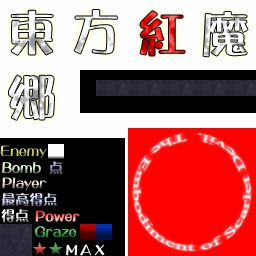
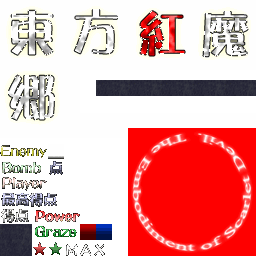
power link

diff --git a/src/player.c b/src/player.c
@@ -16,13 +16,14 @@ Player *InitPlayer(int x, int y, Image *tex) {
     pplayer->y = y;
     pplayer->u = 0;
     pplayer->v = 0;
-    pplayer->power = 3;
+    pplayer->power = 0;
     pplayer->frame = 0;//anm frame
     pplayer->tmp = 0;//frame slow factor
-    pplayer->speed = 2;
+    pplayer->speed = 4;
     pplayer->butimer = 0;
     pplayer->temp = false;//is mode transfer? usage:init anm when mode switch
     pplayer->slowmode = false;
+    pplayer->touchframe = false;
     pplayer->movement = 0;//anm mode 0:NORMAL 1:LEFT 2:RIGHT
     pplayer->tex = LoadTextureFromImage(*tex);
     return pplayer;
@@ -125,19 +126,29 @@ static void shoot(Player *pplayer) {
     if (pplayer->butimer == 5) {
         addBullet(InitBullet(pplayer->x+16+5, pplayer->y+48, 0, -1, 0, -1, &PL00, (Rectangle){194, 145, 11, 62}, 0));
         addBullet(InitBullet(pplayer->x-16+15, pplayer->y+48, 0, -1, 0, -1, &PL00, (Rectangle){194, 145, 11, 62}, 0));
-        if(pplayer->power > 1){
-            if(pplayer->slowmode != true){
-                addBullet(InitBullet(pplayer->x+16+25, pplayer->y+48, 0, -1, 0, -1, &PL00, (Rectangle){207, 145, 6, 54}, 0));
-                addBullet(InitBullet(pplayer->x-16+5, pplayer->y+48, 0, -1, 0, -1, &PL00, (Rectangle){207, 145, 6, 54}, 0));
+        if(pplayer->power >=1){
+            addBullet(InitBullet(pplayer->x+16+15, pplayer->y+48, 0, -1, 0, -1, &PL00, (Rectangle){207, 145, 6, 54}, 0));
+            addBullet(InitBullet(pplayer->x-16+5, pplayer->y+48, 0, -1, 0, -1, &PL00, (Rectangle){207, 145, 6, 54}, 0));
+        }
+        if(pplayer->power >=2){
+            if(pplayer->slowmode == false){
+                addBullet(InitBullet(pplayer->x+16+35, pplayer->y+48, 0, -1, 0, -1, &PL00, (Rectangle){207, 145, 6, 54}, 0));
+                addBullet(InitBullet(pplayer->x-16-15, pplayer->y+48, 0, -1, 0, -1, &PL00, (Rectangle){207, 145, 6, 54}, 0));
+            } else{
+                addBullet(InitBullet(pplayer->x+16+5, pplayer->y+48, 0, -1, 0, -1, &PL00, (Rectangle){207, 145, 6, 54}, 0));
+                addBullet(InitBullet(pplayer->x-16+15, pplayer->y+48, 0, -1, 0, -1, &PL00, (Rectangle){207, 145, 6, 54}, 0));
             }
+
         }
         if(pplayer->power >=3){
             if(pplayer->slowmode == false){
-                addBullet(InitBullet(pplayer->x+16+45, pplayer->y+48, 0, -1, 0, -1, &PL00, (Rectangle){207, 145, 6, 54}, 0));
-                addBullet(InitBullet(pplayer->x-16-15, pplayer->y+48, 0, -1, 0, -1, &PL00, (Rectangle){207, 145, 6, 54}, 0));
-            } else{
                 addBullet(InitBullet(pplayer->x+16+25, pplayer->y+48, 0, -1, 0, -1, &PL00, (Rectangle){207, 145, 6, 54}, 0));
-                addBullet(InitBullet(pplayer->x-16+5, pplayer->y+48, 0, -1, 0, -1, &PL00, (Rectangle){207, 145, 6, 54}, 0));
+                addBullet(InitBullet(pplayer->x-16-5, pplayer->y+48, 0, -1, 0, -1, &PL00, (Rectangle){207, 145, 6, 54}, 0));
+                addBullet(InitBullet(pplayer->x+16+45, pplayer->y+48, 0, -1, 0, -1, &PL00, (Rectangle){207, 145, 6, 54}, 0));
+                addBullet(InitBullet(pplayer->x-16-25, pplayer->y+48, 0, -1, 0, -1, &PL00, (Rectangle){207, 145, 6, 54}, 0));
+            } else{
+                addBullet(InitBullet(pplayer->x-16-5, pplayer->y+48, 0, -1, 0, -1, &PL00, (Rectangle){207, 145, 6, 54}, 0));
+                addBullet(InitBullet(pplayer->x+16+25, pplayer->y+48, 0, -1, 0, -1, &PL00, (Rectangle){207, 145, 6, 54}, 0));
             }
 
         }
@@ -166,6 +177,10 @@ static void ctrl(Player *pplayer) {
     if(IsKeyPressed(KEY_X)){
         spellcard(pplayer);
     }
+    if(IsKeyUp(KEY_LEFT)&& IsKeyUp(KEY_RIGHT)){
+        pplayer->temp = true;
+        pplayer->movement = 0;
+    }
     if (IsKeyPressed(KEY_LEFT)) {
         pplayer->temp = true;
         pplayer->movement = 1;
@@ -174,47 +189,40 @@ static void ctrl(Player *pplayer) {
         pplayer->temp = true;
         pplayer->movement = 2;
     }
-    if (IsKeyUp(KEY_LEFT) && IsKeyUp(KEY_RIGHT)) {
-        pplayer->movement = 0;
-    }
     if (IsKeyDown(KEY_Z)) {
         shoot(pplayer);
     }
-    if (pplayer->x <= 0) {
-        pplayer->x++;
+    if (pplayer->x > 0&& IsKeyDown(KEY_LEFT)) {
+        pplayer->x-=pplayer->speed;
     }
-    if (pplayer->x >= 384 - 32) {
-        pplayer->x--;
+    if(pplayer->x < 384 - 32&& IsKeyDown(KEY_RIGHT)){
+        pplayer->x+=pplayer->speed;
     }
-    if (pplayer->y <= 0) {
-        pplayer->y++;
+    if(pplayer->y>0&& IsKeyDown(KEY_UP)){
+        pplayer->y-=pplayer->speed;
     }
-    if (pplayer->y >= 480 - 48) {
-        pplayer->y--;
+    if(pplayer->y<480-48&& IsKeyDown(KEY_DOWN)){
+        pplayer->y+=pplayer->speed;
     }
-    if (!(pplayer->x < 0 || pplayer->x > 384 - 32)) {
-        if (IsKeyDown(KEY_LEFT)) {
-            pplayer->x -= pplayer->speed;
-            return;
-        }
-        if (IsKeyDown(KEY_RIGHT)) {
-            pplayer->x += pplayer->speed;
-            return;
-        }
+}
+
+static void updatep(Player *pplayer){
+    if(scoreIn->power<16){
+        pplayer->power = 0;
     }
-    if (!(pplayer->y < 0 || pplayer->y > 480 - 48)) {
-        if (IsKeyDown(KEY_UP)) {
-            pplayer->y -= pplayer->speed;
-            return;
-        }
-        if (IsKeyDown(KEY_DOWN)) {
-            pplayer->y += pplayer->speed;
-            return;
-        }
+    if(scoreIn->power>=16){
+        pplayer->power = 1;
+    }
+    if(scoreIn->power>=64){
+        pplayer->power = 2;
+    }
+    if(scoreIn->power>=96){
+        pplayer->power = 3;
     }
 }
 
 void pltick(Player *pplayer) {
+    updatep(pplayer);
     render(pplayer);
     ctrl(pplayer);
     anm(pplayer);

diff --git a/src/ui.c b/src/ui.c
@@ -6,29 +6,26 @@ void rendernum(int num, Vector2 dst){
     if(num < 0 || num > 9){
         return;
     }
-    Texture2D asciiTex = LoadTextureFromImage(ui[1]);
-    DrawTextureRec(asciiTex, (Rectangle){num*16, 48, 16, 16}, dst, WHITE);
+    DrawTextureRec(ui[1], (Rectangle){num*16, 48, 16, 16}, dst, WHITE);
 }
 
 static void renderKey(){
-    Texture2D uiTex = LoadTextureFromImage(ui[0]);
-    DrawTextureRec(uiTex, (Rectangle){0, 191, 60, 17}, (Vector2){433, 61}, WHITE);
-    DrawTextureRec(uiTex, (Rectangle){0, 206, 30, 20}, (Vector2){433, 85}, WHITE);
-    DrawTextureRec(uiTex, (Rectangle){0, 176, 47, 16}, (Vector2){433, 122}, WHITE);
-    DrawTextureRec(uiTex, (Rectangle){0, 160, 43, 16}, (Vector2){433, 146}, WHITE);
-    DrawTextureRec(uiTex, (Rectangle){34, 210, 46, 13}, (Vector2){433, 187}, WHITE);
-    DrawTextureRec(uiTex, (Rectangle){34, 225, 41, 14}, (Vector2){433, 206}, WHITE);
-    DrawTextureRec(uiTex, (Rectangle){49, 160, 15, 15}, (Vector2){433, 227}, WHITE);
+    DrawTextureRec(ui[0], (Rectangle){0, 191, 60, 17}, (Vector2){433, 61}, WHITE);
+    DrawTextureRec(ui[0], (Rectangle){0, 206, 30, 20}, (Vector2){433, 85}, WHITE);
+    DrawTextureRec(ui[0], (Rectangle){0, 176, 47, 16}, (Vector2){433, 122}, WHITE);
+    DrawTextureRec(ui[0], (Rectangle){0, 160, 43, 16}, (Vector2){433, 146}, WHITE);
+    DrawTextureRec(ui[0], (Rectangle){34, 210, 46, 13}, (Vector2){433, 187}, WHITE);
+    DrawTextureRec(ui[0], (Rectangle){34, 225, 41, 14}, (Vector2){433, 206}, WHITE);
+    DrawTextureRec(ui[0], (Rectangle){49, 160, 15, 15}, (Vector2){433, 227}, WHITE);
     for(int i = 0; i < scoreIn->live; i++){
-        DrawTextureRec(uiTex, (Rectangle){32, 241, 15, 15}, (Vector2){497+17*i, 123}, WHITE);
+        DrawTextureRec(ui[0], (Rectangle){32, 241, 15, 15}, (Vector2){497+17*i, 123}, WHITE);
     }
     for(int i = 0; i < scoreIn->bomb; i++){
-        DrawTextureRec(uiTex, (Rectangle){48, 241, 15, 15}, (Vector2){497+17*i, 147}, WHITE);
+        DrawTextureRec(ui[0], (Rectangle){48, 241, 15, 15}, (Vector2){497+17*i, 147}, WHITE);
     }
 }
 
 static void renderPower(){
-    Texture2D uiTex = LoadTextureFromImage(ui[0]);
     BYTE bits=4;
     if(scoreIn->power<128){
         while (true){
@@ -43,7 +40,7 @@ static void renderPower(){
             rendernum(tmp, (Vector2){497+(bits-1)*15-i*15, 187});
         }
     } else{
-        DrawTextureRec(uiTex, (Rectangle){65, 244, 41, 12}, (Vector2){499, 189}, WHITE);
+        DrawTextureRec(ui[0], (Rectangle){65, 244, 41, 12}, (Vector2){499, 189}, WHITE);
         scoreIn->power = 128;
     }
 }

diff --git a/src/resman.c b/src/resman.c
@@ -3,7 +3,7 @@
 Image PL00;
 Image PL01;
 Image BULLET[2];
-Image ui[2];
+Texture2D ui[2];
 Music bgms[17];
 
 
@@ -14,8 +14,8 @@ void ldtex(){
     PL01 = LoadImage("assets/TEX/pl01.png");
     BULLET[0] = LoadImage("assets/TEX/etama3.png");
     BULLET[1] = LoadImage("assets/TEX/etama4.png");
-    ui[0] = LoadImage("assets/TEX/front.png");
-    ui[1] = LoadImage("assets/TEX/ascii.png");
+    ui[0] = LoadTexture("assets/TEX/front.png");
+    ui[1] = LoadTexture("assets/TEX/ascii.png");
     bgms[0] = LoadMusicStream("assets/BGM/th06_01.wav");
     bgms[1] = LoadMusicStream("assets/BGM/th06_02.wav");
     bgms[2] = LoadMusicStream("assets/BGM/th06_03.wav");

diff --git a/src/stage.c b/src/stage.c
@@ -70,17 +70,15 @@ void delete(bullet *pb){
 void StartStage() {
     while (!WindowShouldClose()) {
         UpdateMusicStream(bgms[5]);
-        scoreIn->graze+=10;
-        scoreIn->point+=10;
+        timer++;
         if(timer%5==0){
             scoreIn->power++;
         }
-        timer++;
         BeginDrawing();
+        ClearBackground((Color){25, 25, 36});
         loopbu();
         pltick(pplayer);
         renderUI();
-        ClearBackground((Color){25, 25, 36});
         EndDrawing();
     }
 }

diff --git a/src/bullet.c b/src/bullet.c
@@ -30,7 +30,7 @@ static void render(bullet *pb){
                    pb->rotate, WHITE);
 }
 static void check(bullet *pb){
-    if(pb->x<0||pb->x>384||pb->y<0||pb->y>480){
+    if(pb->x<0||pb->x>433||pb->y<0||pb->y>480){
         pb->x = 1000;
         pb->y = 1000;
         pb->dx = 0;

diff --git a/src/openstg.h b/src/openstg.h
@@ -19,7 +19,7 @@ extern Image BULLET[2];
 extern Music bgms[17];
 extern unsigned long timer;//GLOBAL TIMER(TPS)
 extern score *scoreIn;
-extern Image ui[2];
+extern Texture2D ui[2];
 
 
 #include "ui.h"//header inc

diff --git a/src/player.h b/src/player.h
@@ -14,6 +14,7 @@ typedef struct
     unsigned char power;
     _Bool temp;
     _Bool slowmode;
+    _Bool touchframe;
     short speed;
     short movement;
     Texture2D tex;
